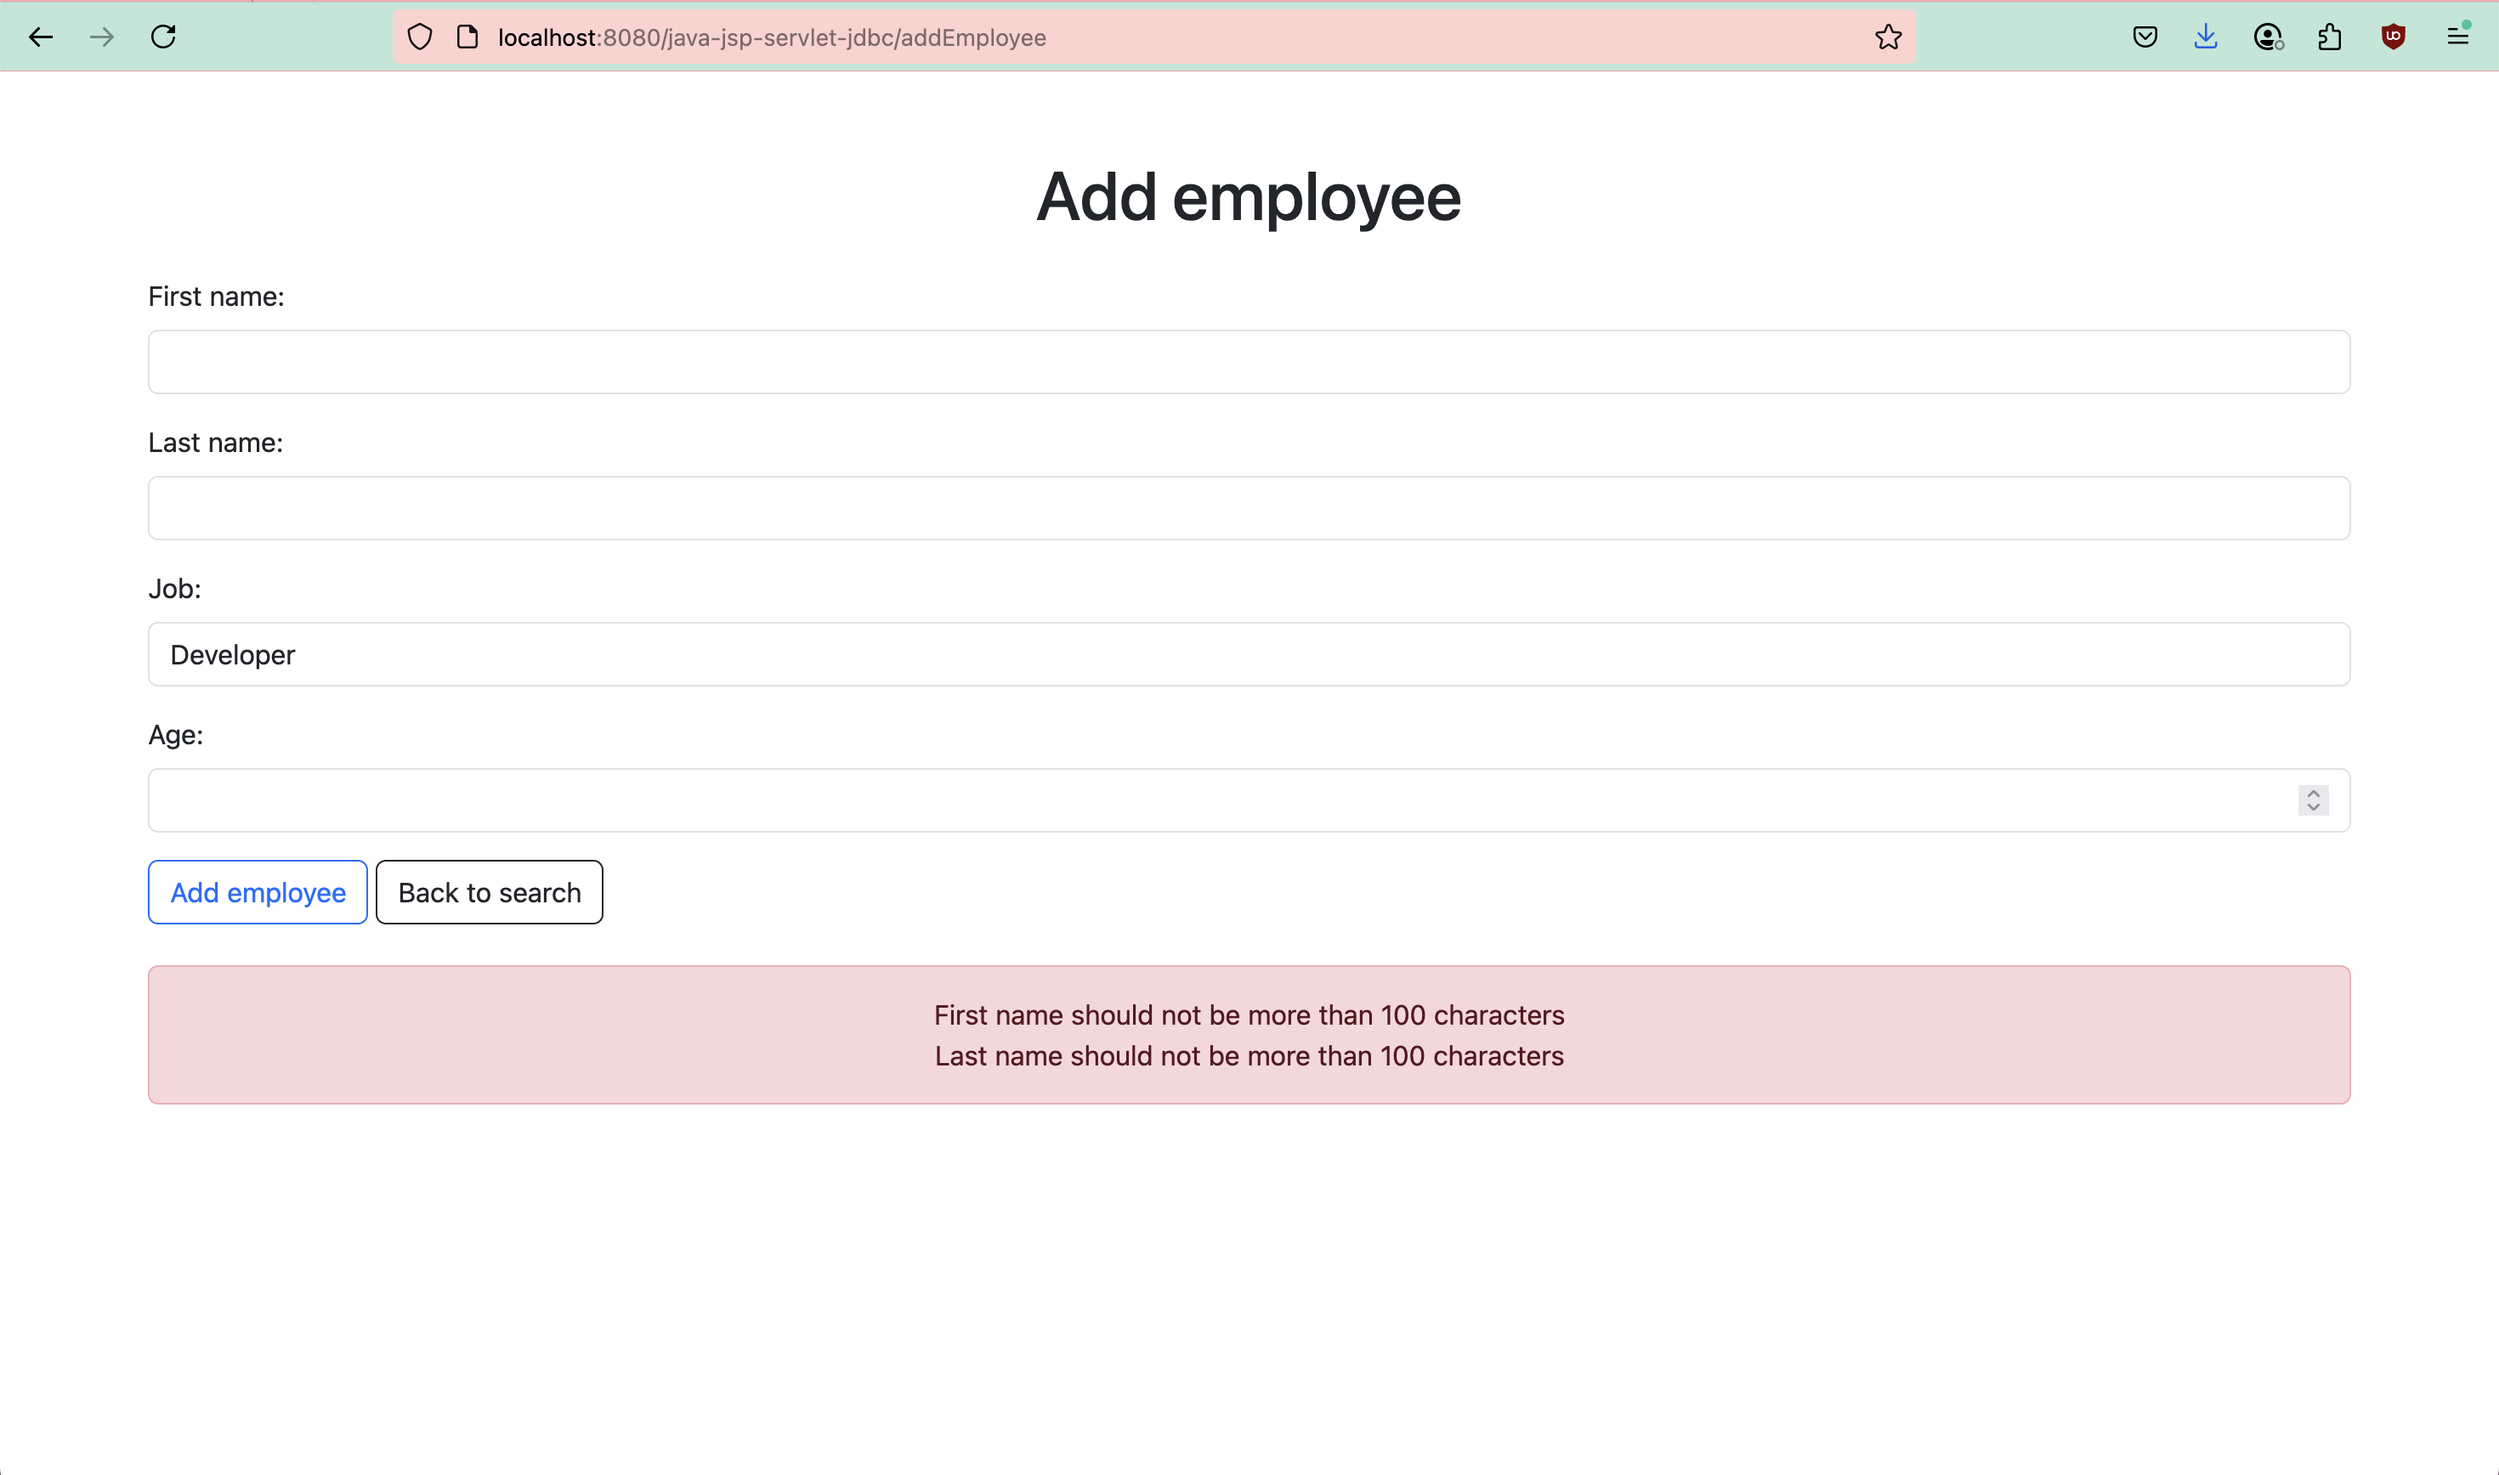
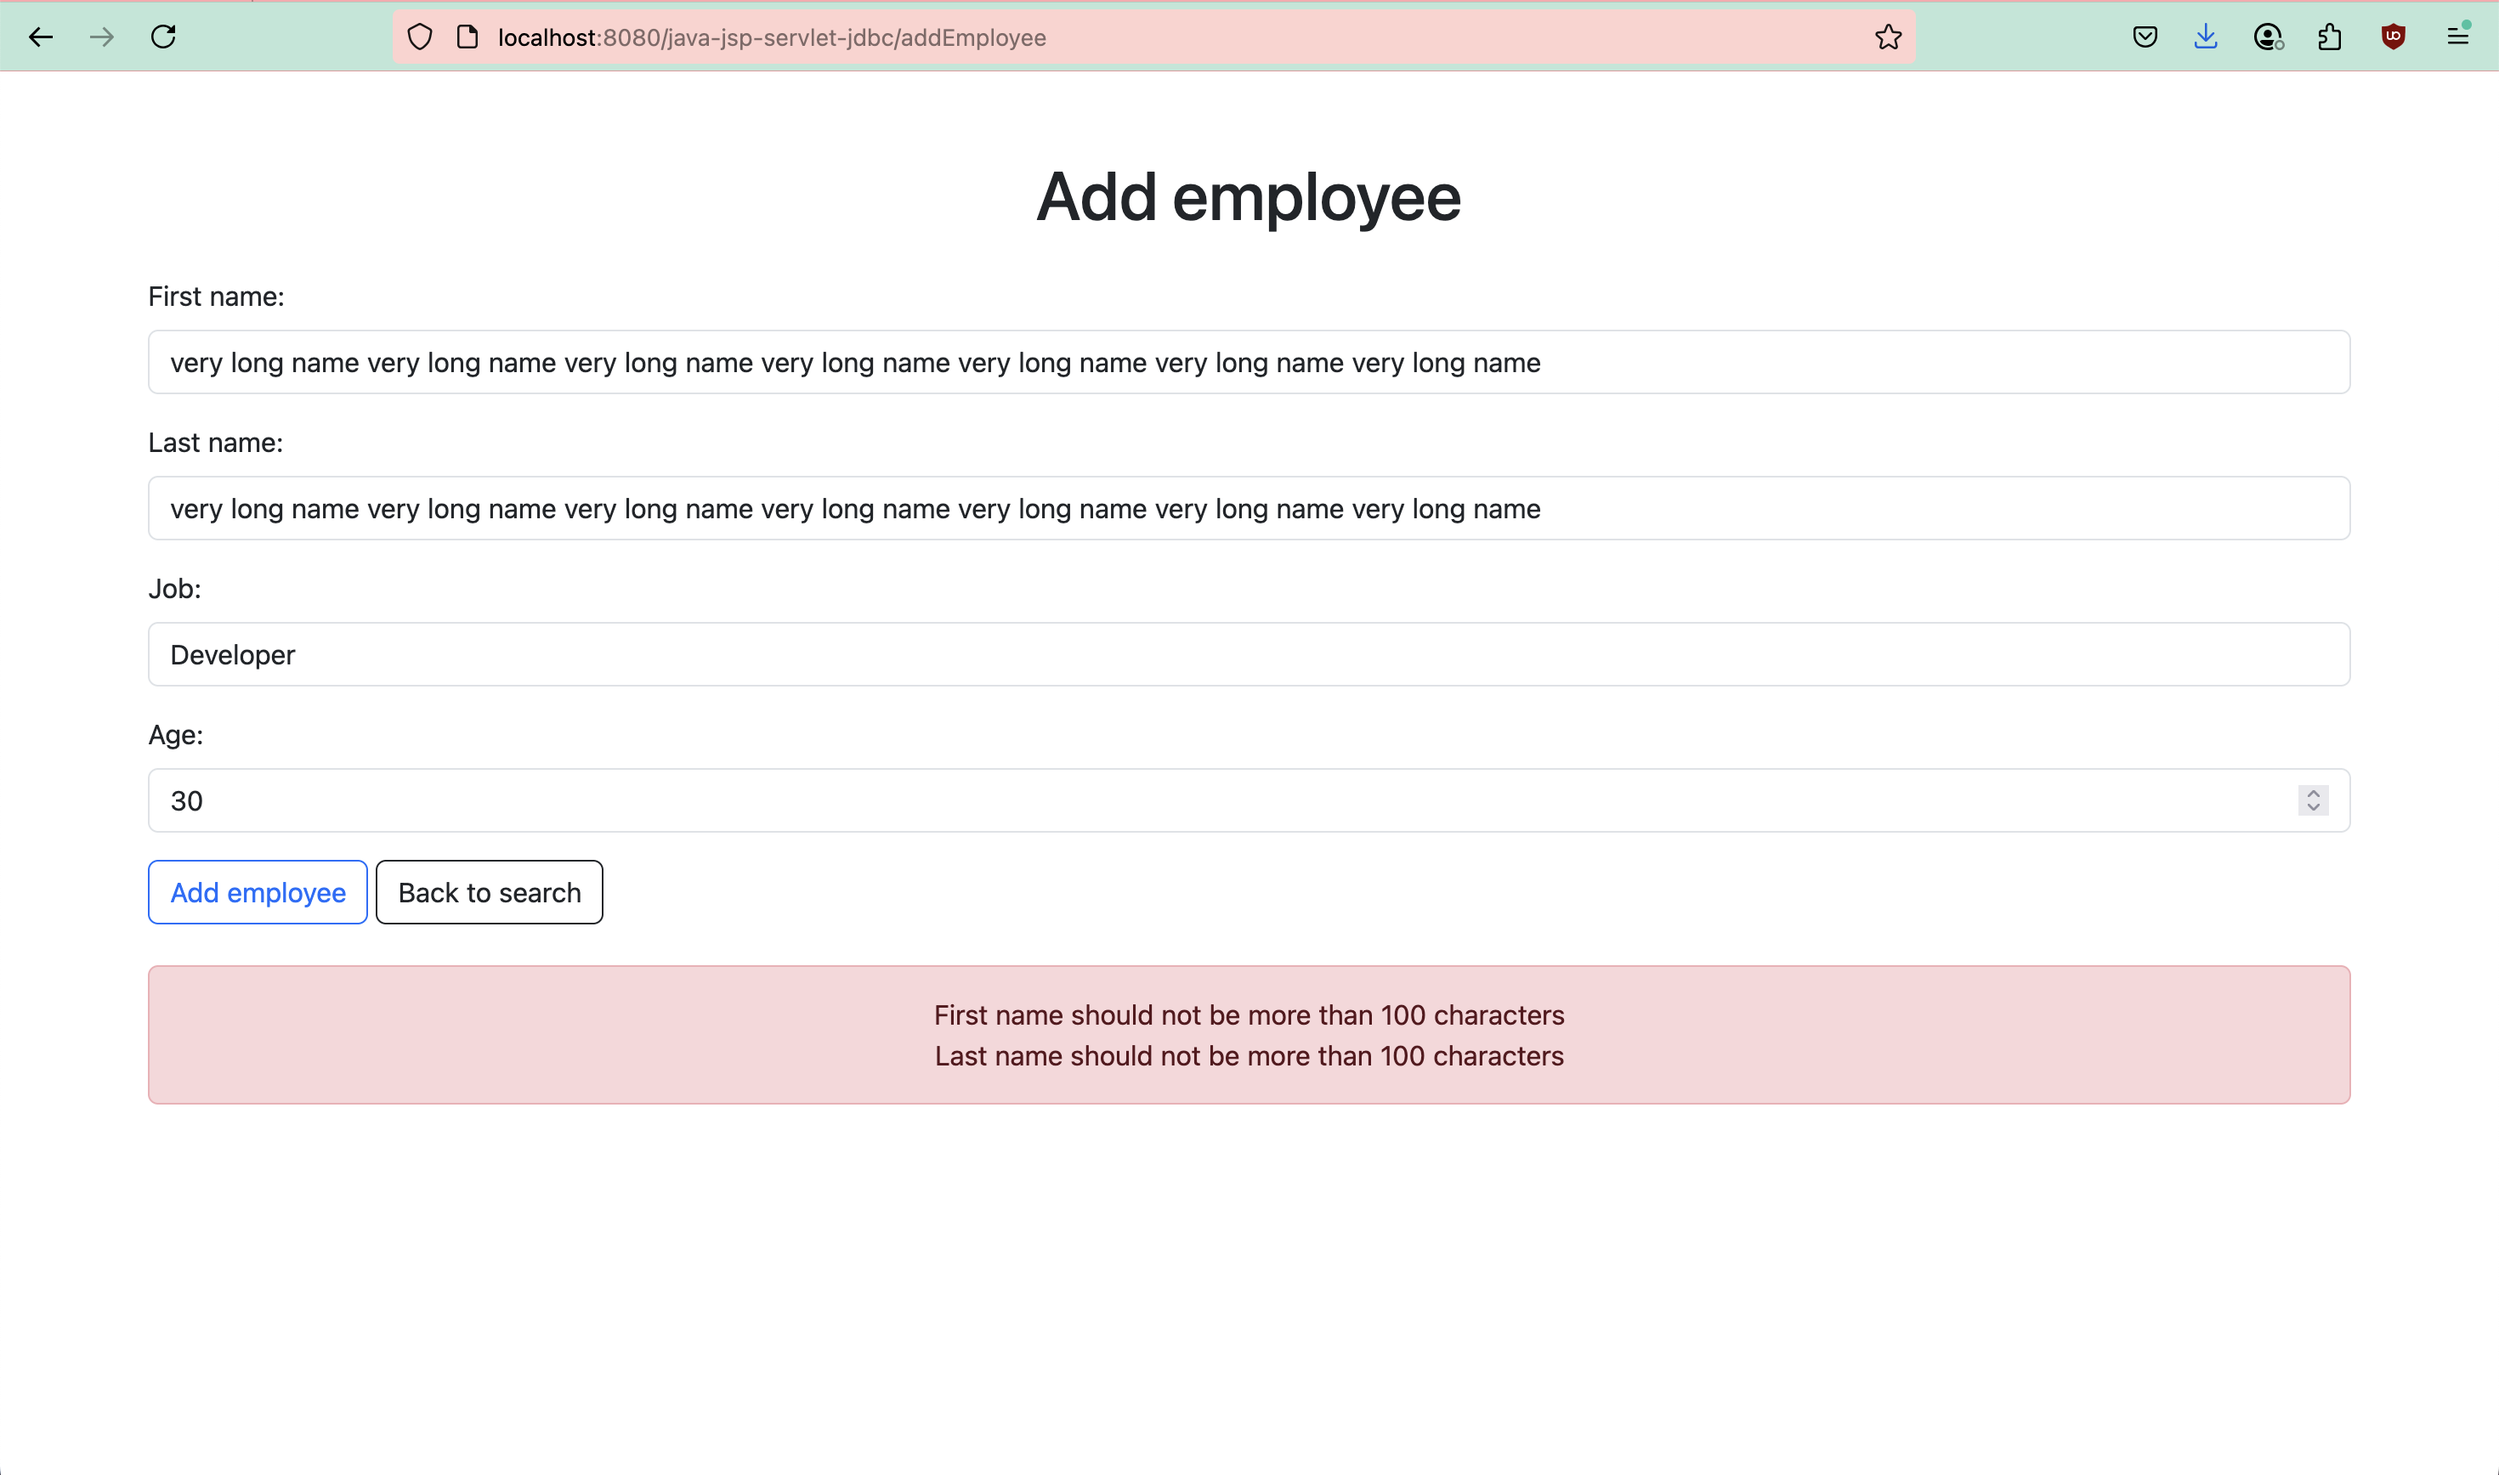
Preserve form values during forward

diff --git a/src/main/java/com/learn/javaweb/controller/AddEmployeeServlet.java b/src/main/java/com/learn/javaweb/controller/AddEmployeeServlet.java
@@ -5,6 +5,7 @@ import java.io.IOException;
 import com.learn.javaweb.dao.EmployeeDao;
 import com.learn.javaweb.util.EmployeeValidator;
 
+import jakarta.servlet.RequestDispatcher;
 import jakarta.servlet.ServletException;
 import jakarta.servlet.annotation.WebServlet;
 import jakarta.servlet.http.HttpServlet;
@@ -41,7 +42,13 @@ public class AddEmployeeServlet extends HttpServlet {
 			
 			EmployeeDao employeeDao = new EmployeeDao();
 			int addEmployeeStatus = employeeDao.addEmployee(firstName, lastName, job, Integer.parseInt(ageString));
-
-            response.sendRedirect(addEmployeeStatus > 0 ? "employee_form.jsp?success=true" : "employee_form.jsp?error=true");
+			
+			if (addEmployeeStatus > 0) {
+			    response.sendRedirect("employee_form.jsp?success=true");
+			} else {
+			    request.setAttribute("success", false);
+			    RequestDispatcher dispatcher = request.getRequestDispatcher("employee_form.jsp");
+			    dispatcher.forward(request, response);
+			}
 	}
 }
